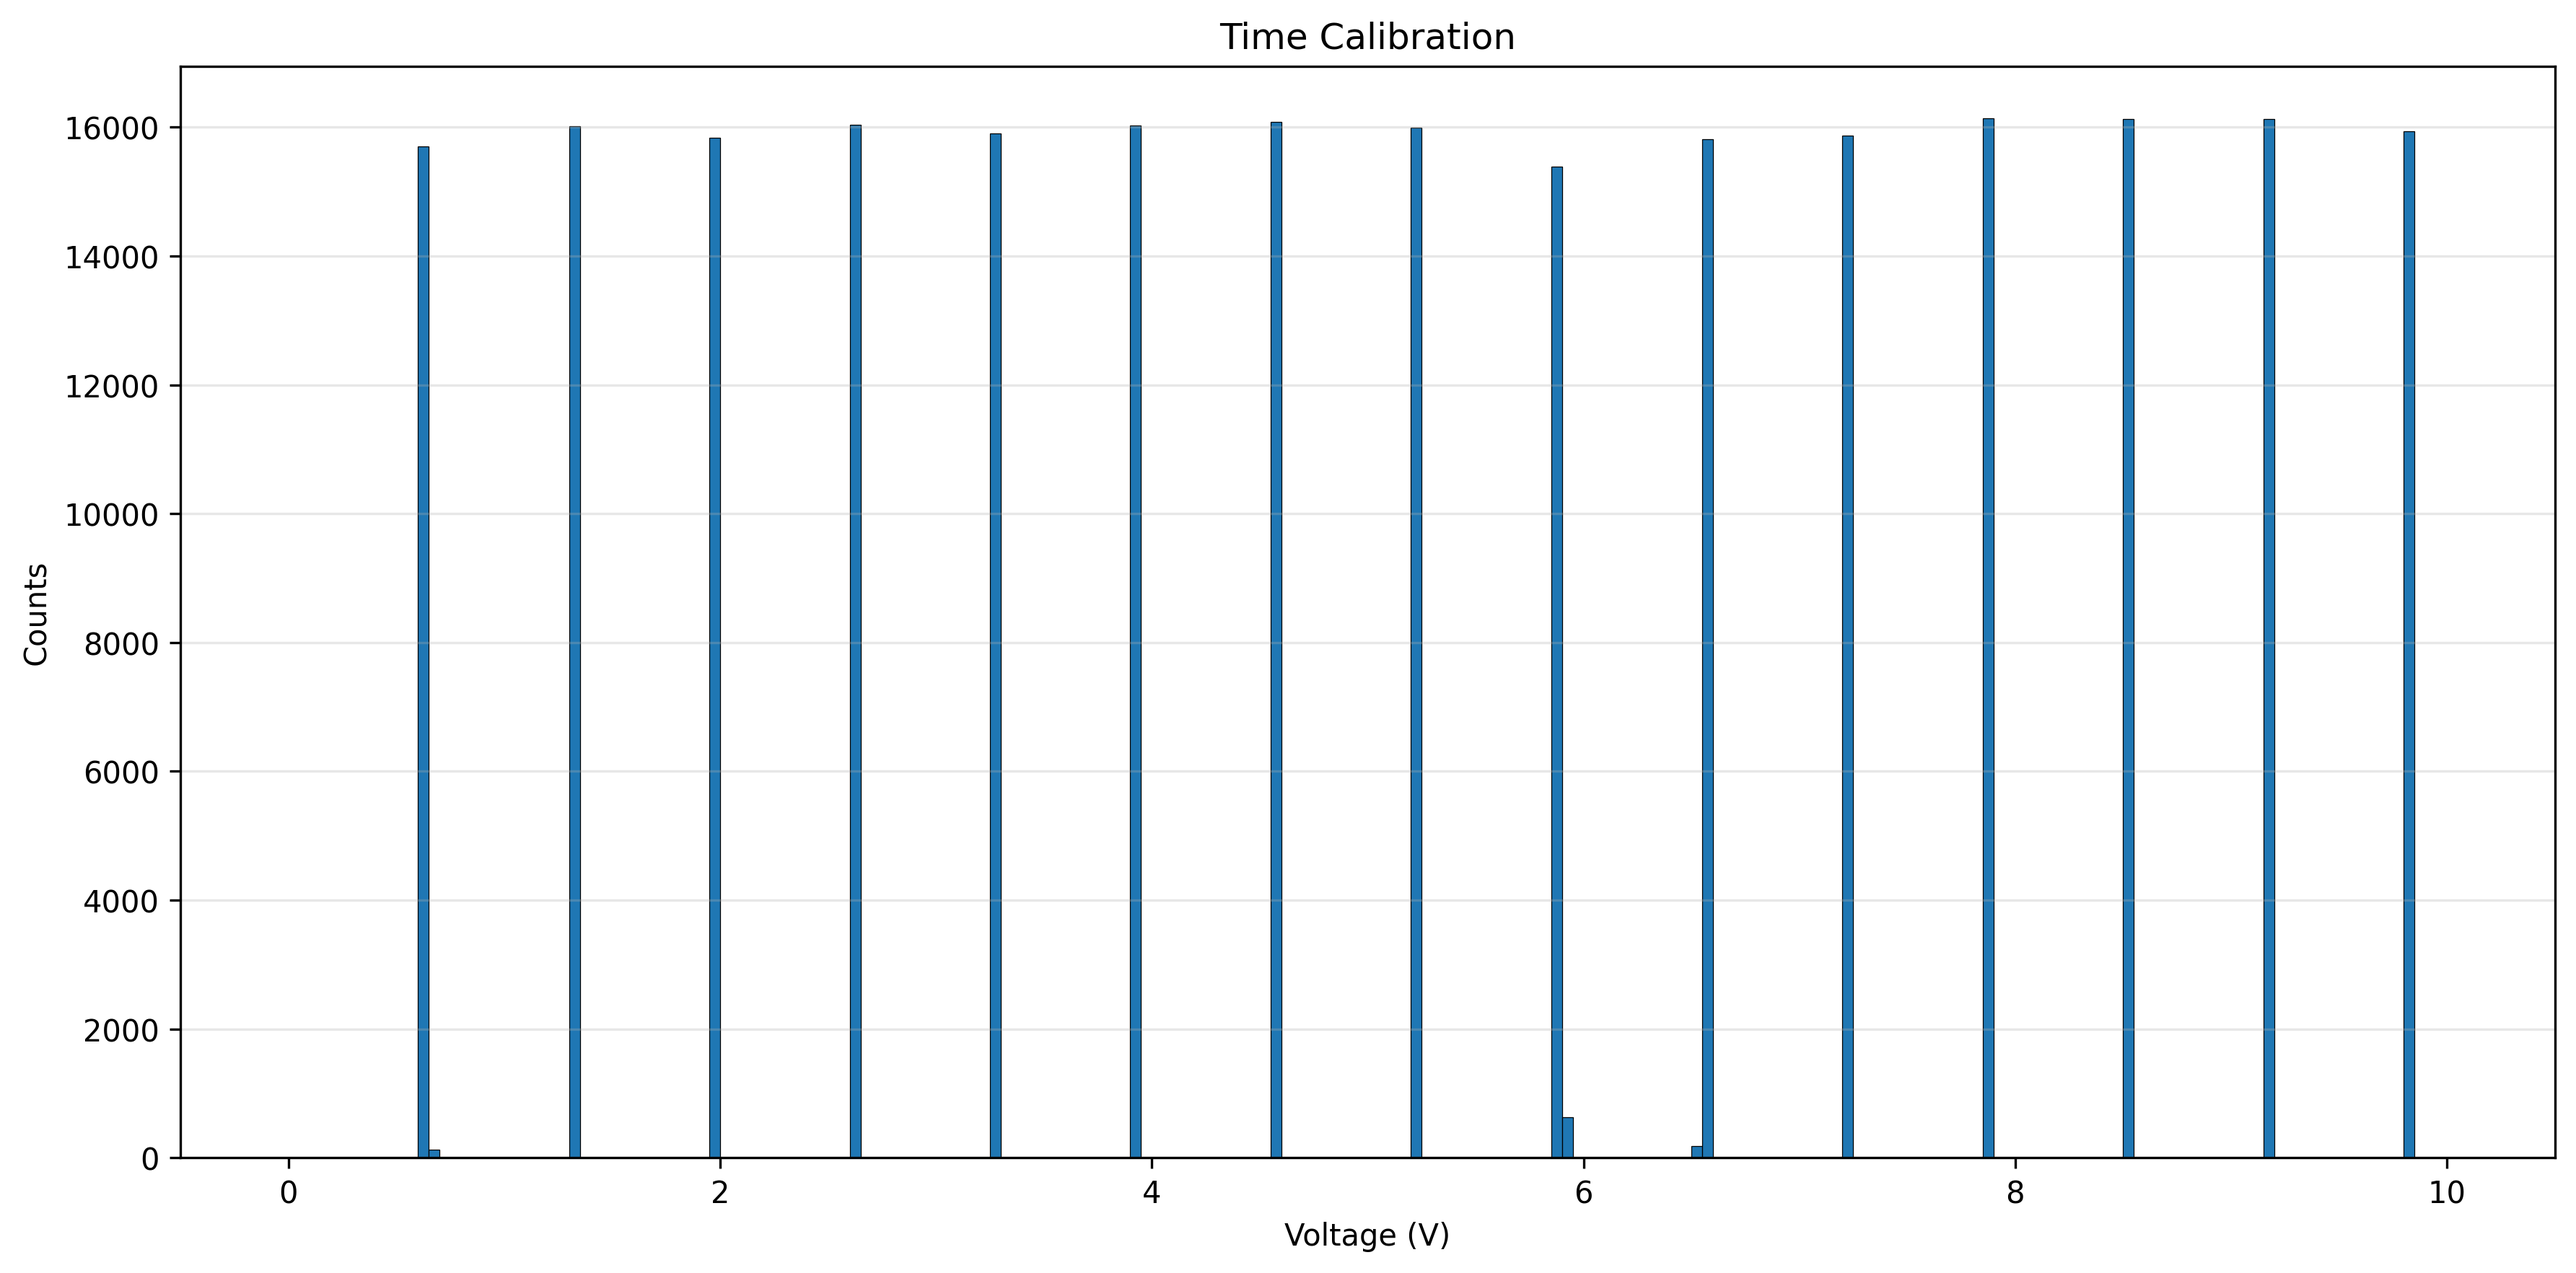
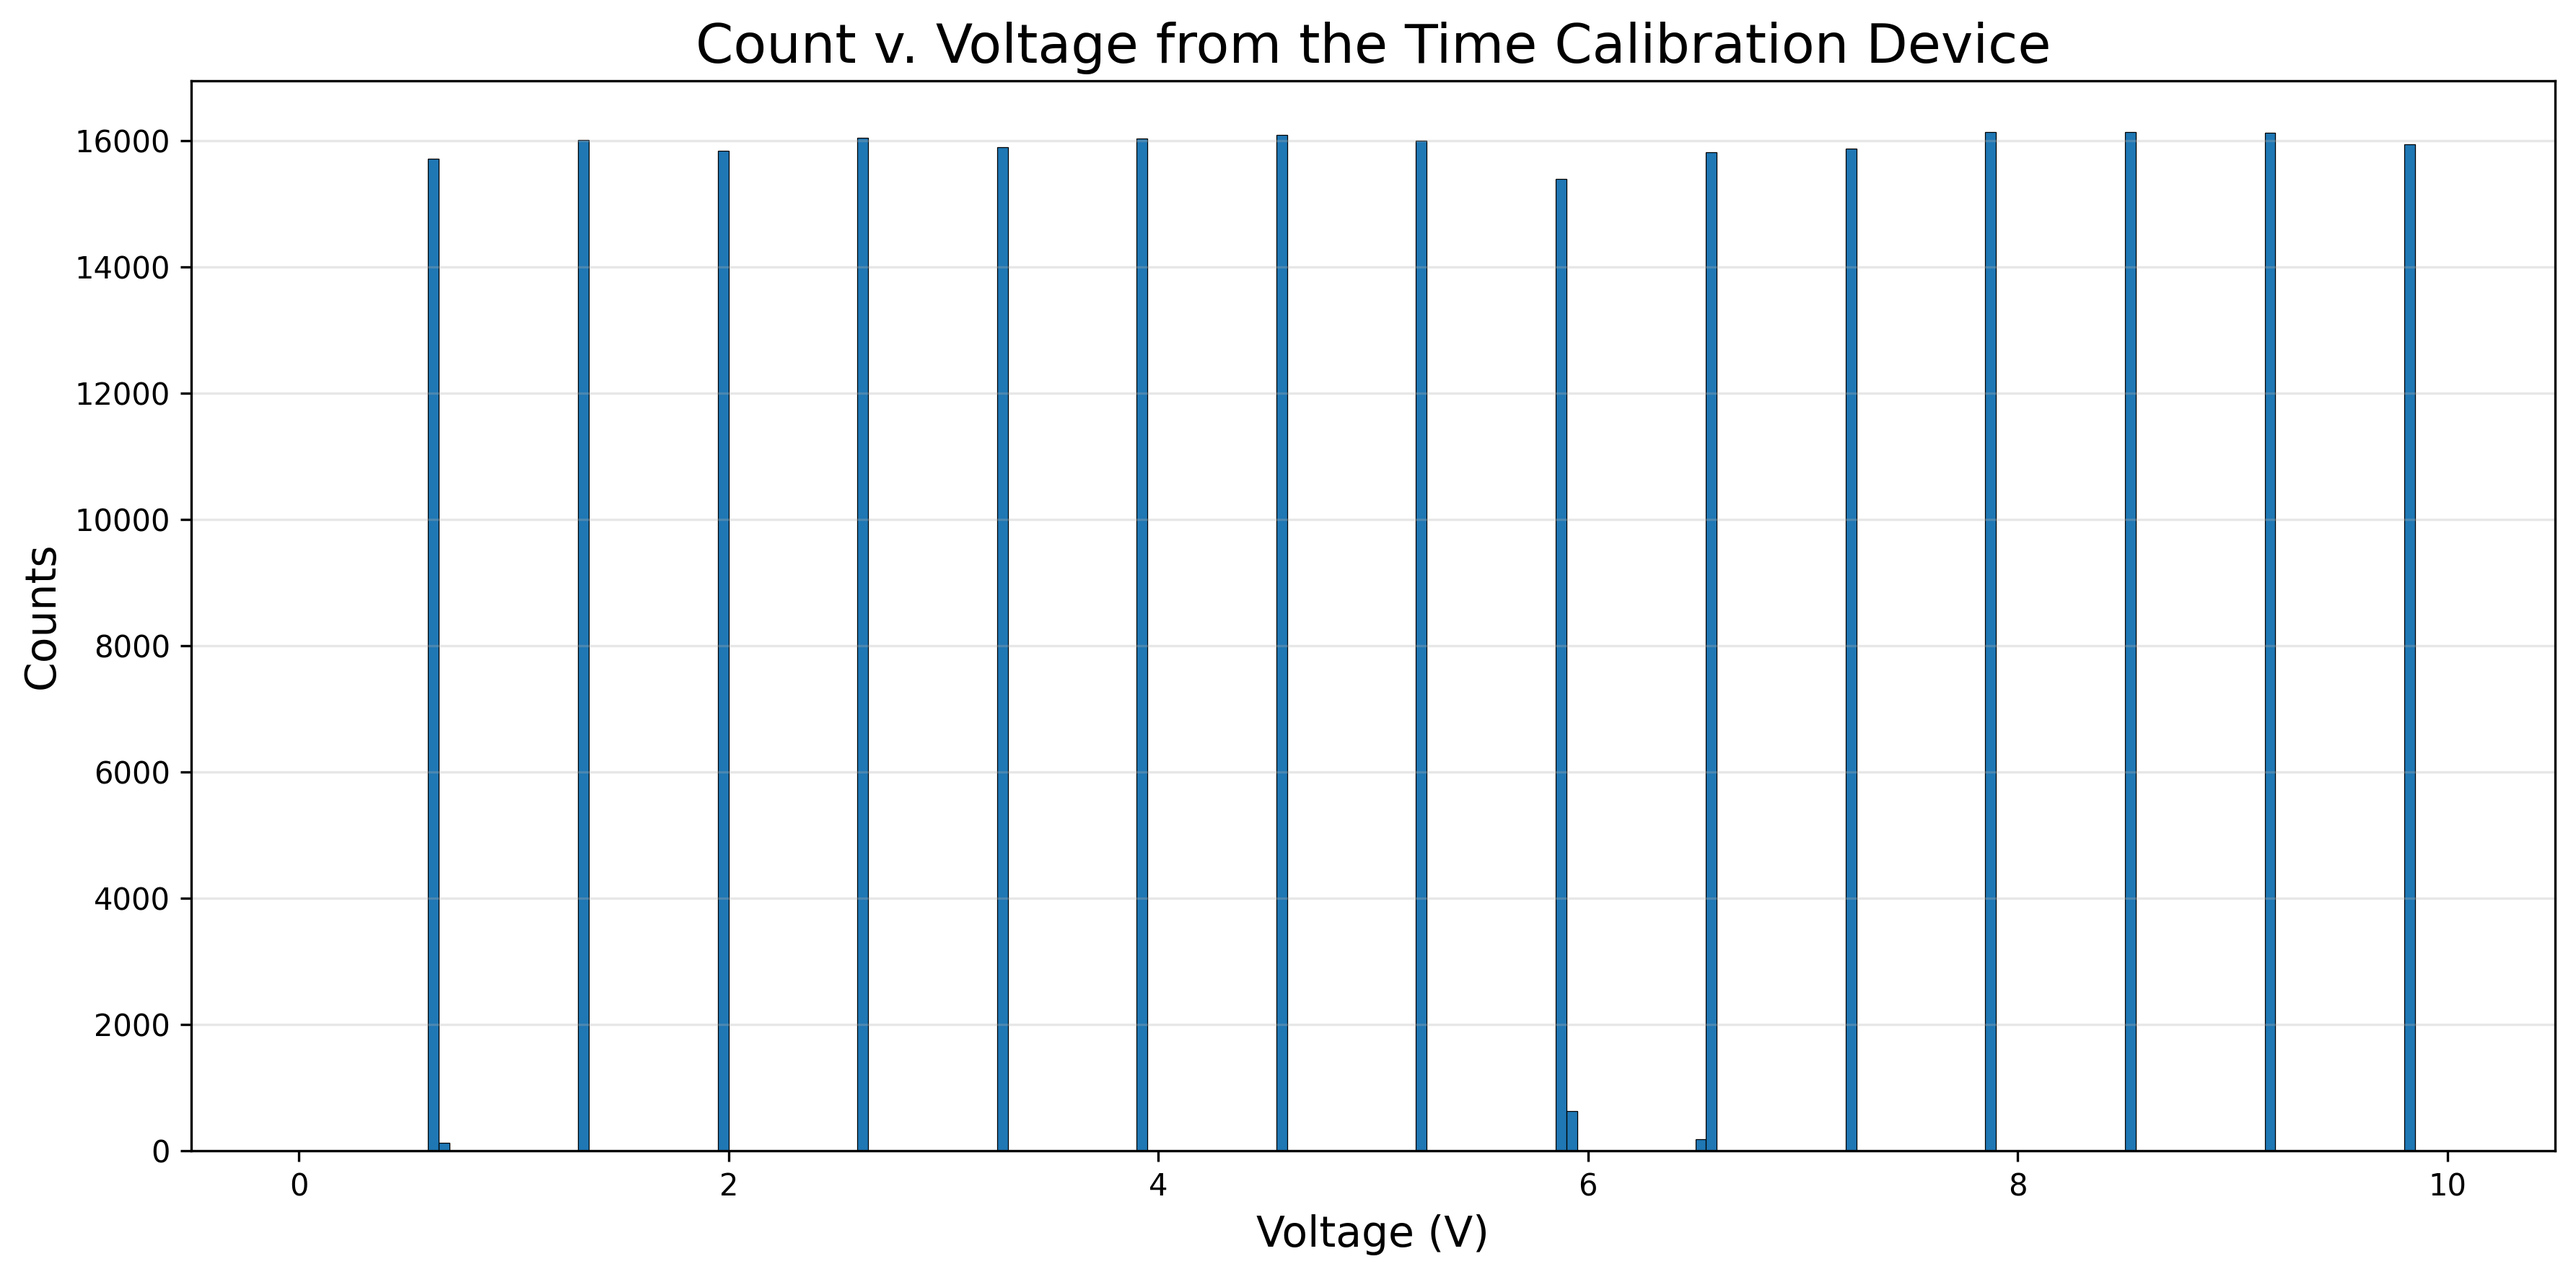
bigger font

diff --git a/calibration_measurement.py b/calibration_measurement.py
@@ -65,9 +65,9 @@ plt.bar(
     linewidth=0.3
 )
 
-plt.xlabel("Voltage (V)")
-plt.ylabel("Counts")
-plt.title("Time Calibration")
+plt.xlabel("Voltage (V)", size = 14)
+plt.ylabel("Counts", size = 14)
+plt.title("Count v. Voltage from the Time Calibration Device", size = 18)
 plt.grid(axis="y", alpha=0.3)
 
 plt.tight_layout()
